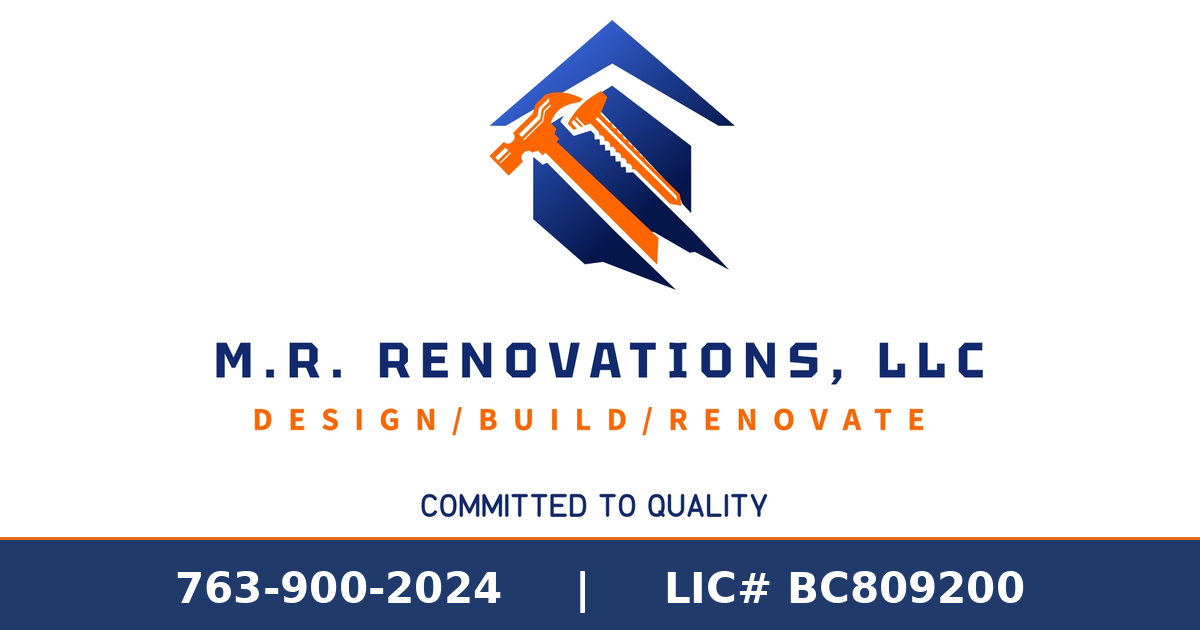
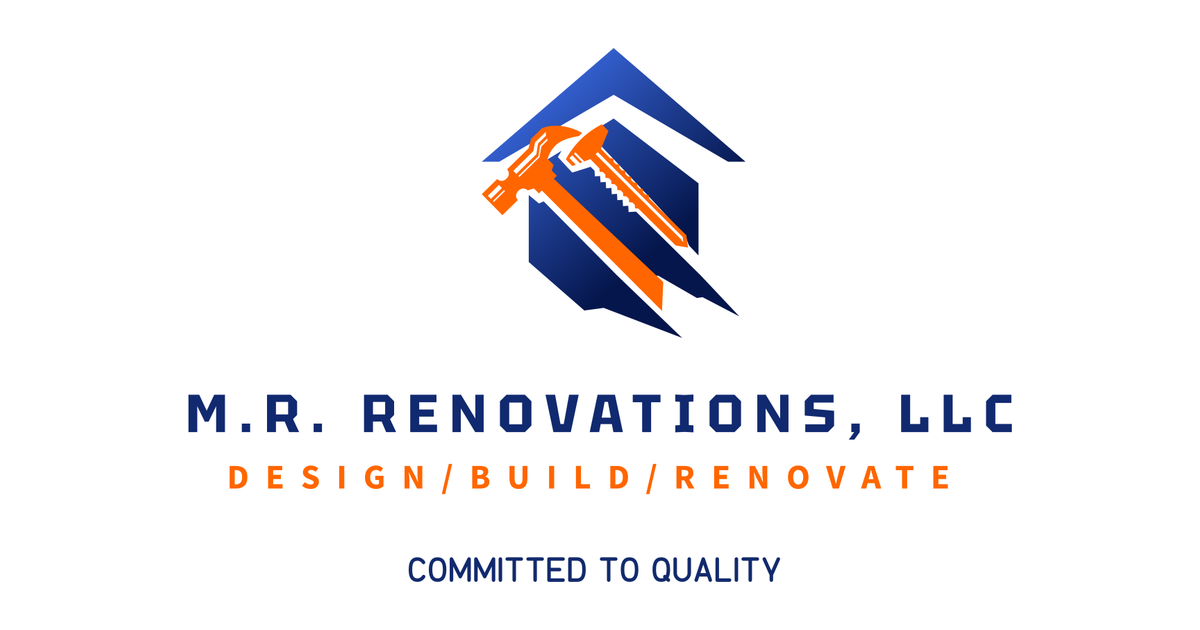
feat(seo): ship real 1200x630 OG image, replacing the placeholder
Replaces the placeholder at public/og/default.png with the real brand card
(M.R. emblem + "M.R. Renovations, LLC / Design·Build·Renovate / Committed to
Quality", 1200x630). SITE.defaultOgImage.url already pointed at
/og/default.png, so this asset now flows to every OG/Twitter card that
doesn't supply its own — no metadata field changes, just the asset swap and
a comment update replacing the old P1.9 TODO.

Verify: paste a deployed page URL into a link-preview tool (Slack/iMessage/
LinkedIn) after cutover — the card should render the brand image.

Changed region(s): [[0.0, 0.7238, 1.0, 1.0], [0.1542, 0.0302, 0.8633, 0.6937]]

diff --git a/src/lib/seo/site.ts b/src/lib/seo/site.ts
@@ -66,7 +66,7 @@ export const SITE = {
   },
 
   // ----- Default Open Graph image ------------------------------------------
-  // TODO: ship a real 1200x630 asset at /public/og/default.png (ticket P1.9).
+  // 1200x630 brand card (full M.R. Renovations logo centered on white) at /public/og/default.png.
   // Used for all OG/Twitter cards that don't supply their own.
   defaultOgImage: {
     url: "/og/default.png",